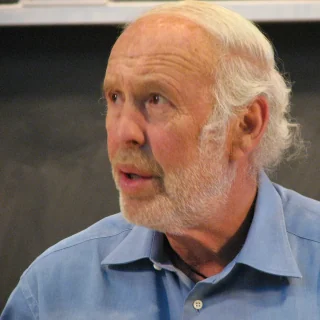
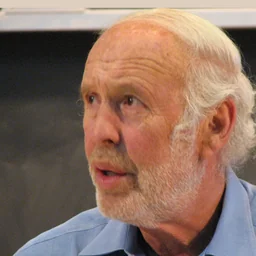
Recrop Explore portraits for better head framing.
Retune Benioff/Tiger/Elliott/Hock and other institution headshots with headroom padding, soften default object-position, and allow per-portrait position overrides in cards and rows.

diff --git a/frontend/src/ExplorePersonRow.jsx b/frontend/src/ExplorePersonRow.jsx
@@ -18,7 +18,7 @@ function prices(ticker){
   const promise=new Promise(resolve=>{queue.push(async()=>{try{const r=await fetchJsonSafe(`/api/bars?ticker=${encodeURIComponent(ticker)}&days=35`,{timeoutMs:12000});resolve(r.ok?(r.data?.items??[]).map(b=>Number(b.close)).filter(v=>Number.isFinite(v)&&v>0):[])}catch{resolve([])}});pump()})
   chartCache.set(ticker,{at:Date.now(),promise});return promise
 }
-export function ImageOrInitials({src,name,className,logo=false,discover=true,fallbackSrc=null}){
+export function ImageOrInitials({src,name,className,logo=false,discover=true,fallbackSrc=null,objectPosition=null}){
   const [failed,setFailed]=useState(false),[usedFallback,setUsedFallback]=useState(false),[discovered,setDiscovered]=useState(null)
   const imageRef=useRef(null)
   useEffect(()=>{setFailed(false);setUsedFallback(false);setDiscovered(null)},[src,name,fallbackSrc])
@@ -31,7 +31,8 @@ export function ImageOrInitials({src,name,className,logo=false,discover=true,fal
   },[name,src,logo,failed,discover])
   const imageSrc=(!failed&&src)||(usedFallback&&fallbackSrc)||discovered
   const letters=String(name??'').replace(/^(hon\.?|mr\.?|mrs\.?)\s+/i,'').trim().split(/\s+/).filter(Boolean).slice(0,2).map(s=>s[0]).join('').toUpperCase()||'—'
-  return <span ref={imageRef} className={className} aria-hidden="true">{imageSrc?<img src={imageSrc} alt="" loading="lazy" decoding="async" referrerPolicy="no-referrer" onError={()=>{if(imageSrc===discovered)setDiscovered(null);else if(!usedFallback&&fallbackSrc&&imageSrc===src)setUsedFallback(true);else{setFailed(true);setUsedFallback(false)}}}/>:<span className="mono">{logo?String(name??'').slice(0,3):letters}</span>}</span>
+  const imgStyle=objectPosition?{objectPosition}:undefined
+  return <span ref={imageRef} className={className} aria-hidden="true">{imageSrc?<img src={imageSrc} alt="" loading="lazy" decoding="async" referrerPolicy="no-referrer" style={imgStyle} onError={()=>{if(imageSrc===discovered)setDiscovered(null);else if(!usedFallback&&fallbackSrc&&imageSrc===src)setUsedFallback(true);else{setFailed(true);setUsedFallback(false)}}}/>:<span className="mono">{logo?String(name??'').slice(0,3):letters}</span>}</span>
 }
 export function ExplorePersonRow({row,onClick=null,companyOnly=false,investorOnly=false,performanceTransactions=null,trailingAction=null}){
   const ref=useRef(null),[series,setSeries]=useState([]),[performance,setPerformance]=useState(null)
@@ -41,6 +42,7 @@ export function ExplorePersonRow({row,onClick=null,companyOnly=false,investorOnl
   const portraitEntry=lookupExplorePortrait(row.name, row.actorSlug)
   const portrait=portraitEntry?.src
   const logo=portraitEntry?.kind==='logo'
+  const objectPosition=portraitEntry?.position||null
   useEffect(()=>{
     let alive=true,started=false
     setSeries([])
@@ -80,7 +82,7 @@ export function ExplorePersonRow({row,onClick=null,companyOnly=false,investorOnl
   const returnTitle=performance?`${performance.count>1?'Equal-weight average stock return since these transactions':'Stock return since transaction'} through ${performance.asOf}`:'Transaction performance unavailable'
   const compactIdentity=companyOnly||investorOnly
   const content=<>
-    <ImageOrInitials src={companyOnly?companyLogoSrc(ticker):portrait} fallbackSrc={companyOnly?companyLogoFallback(ticker):null} name={companyOnly?ticker:row.name} className="explorePersonPortrait" logo={companyOnly||logo}/>
+    <ImageOrInitials src={companyOnly?companyLogoSrc(ticker):portrait} fallbackSrc={companyOnly?companyLogoFallback(ticker):null} name={companyOnly?ticker:row.name} className="explorePersonPortrait" logo={companyOnly||logo} objectPosition={companyOnly?null:objectPosition}/>
     <span className="explorePersonCopy">
       <span className="explorePersonMobileTransaction">{compactIdentity?<span className={`explorePersonAction mono ${eventTone}`}>{event}</span>:transaction}</span>
       <span className="exploreDirectoryName">{companyOnly?companyLabel:row.name}</span>

diff --git a/frontend/src/ExplorePage.css b/frontend/src/ExplorePage.css
@@ -213,7 +213,7 @@
   width: 100%;
   height: 100%;
   object-fit: cover;
-  object-position: center 12%;
+  object-position: center 22%;
 }
 .exploreFeaturedCopy {
   position: relative;
@@ -2422,7 +2422,7 @@
   display:grid; grid-template-columns:56px minmax(160px,1.15fr) minmax(170px,1fr) minmax(100px,.55fr) minmax(100px,.45fr); align-items:center; gap:var(--explore-directory-col-gap); padding:20px 0; width:100%;
 }
 .explorePersonPortrait { width:56px; height:64px; border-radius:4px; overflow:hidden; display:flex; align-items:center; justify-content:center; flex-shrink:0; background:rgba(255,255,255,.055); color:rgba(255,255,255,.4); border:1px solid rgba(255,255,255,.06); font-size:16px; }
-.explorePersonPortrait img { width:100%; height:100%; object-fit:cover; object-position:center 20%; }
+.explorePersonPortrait img { width:100%; height:100%; object-fit:cover; object-position:center 28%; }
 .explorePersonCopy { min-width:0; display:flex; flex-direction:column; gap:6px; }
 .explorePersonCopy .exploreDirectoryName { overflow:hidden; text-overflow:ellipsis; white-space:nowrap; }
 .explorePersonCompany { color:rgba(255,255,255,.4); font-size:11px; overflow:hidden; text-overflow:ellipsis; white-space:nowrap; }
@@ -2823,7 +2823,7 @@
   border: 0;
   background: rgba(255, 255, 255, 0.06);
 }
-.exploreTapeAvatar .explorePersonPortrait img { object-position: center 18%; border-radius: 18px; }
+.exploreTapeAvatar .explorePersonPortrait img { object-position: center 28%; border-radius: 18px; }
 .exploreTapeAvatar.isLogo .explorePersonPortrait {
   background: rgba(255, 255, 255, 0.06);
 }

diff --git a/frontend/src/ExploreWatchlistSection.jsx b/frontend/src/ExploreWatchlistSection.jsx
@@ -473,7 +473,7 @@ function ExploreTapeRow({ row, rank, range, plain = false, invested = false, onC
     <>
       <span className="exploreTapeRank">{rank}</span>
       <span className={`exploreTapeAvatar${logo ? ' isLogo' : ''}`}>
-        <ImageOrInitials src={thumb} name={row.name} className="explorePersonPortrait" logo={logo} discover={false} />
+        <ImageOrInitials src={thumb} name={row.name} className="explorePersonPortrait" logo={logo} discover={false} objectPosition={portrait?.position || null} />
       </span>
       <span className="exploreTapeCopy">
         {investedLabel ? (

diff --git a/frontend/src/ExploreFeaturedCards.jsx b/frontend/src/ExploreFeaturedCards.jsx
@@ -134,6 +134,7 @@ export function ExploreFeaturedCards({ rows = [], range = '6M', onCardClick = nu
                 className="exploreFeaturedPhoto"
                 logo={logo}
                 discover={false}
+                objectPosition={portrait?.position || null}
               />
               <span className="exploreFeaturedCopy">
                 <span className="exploreFeaturedBadge">{typeLabel}</span>
